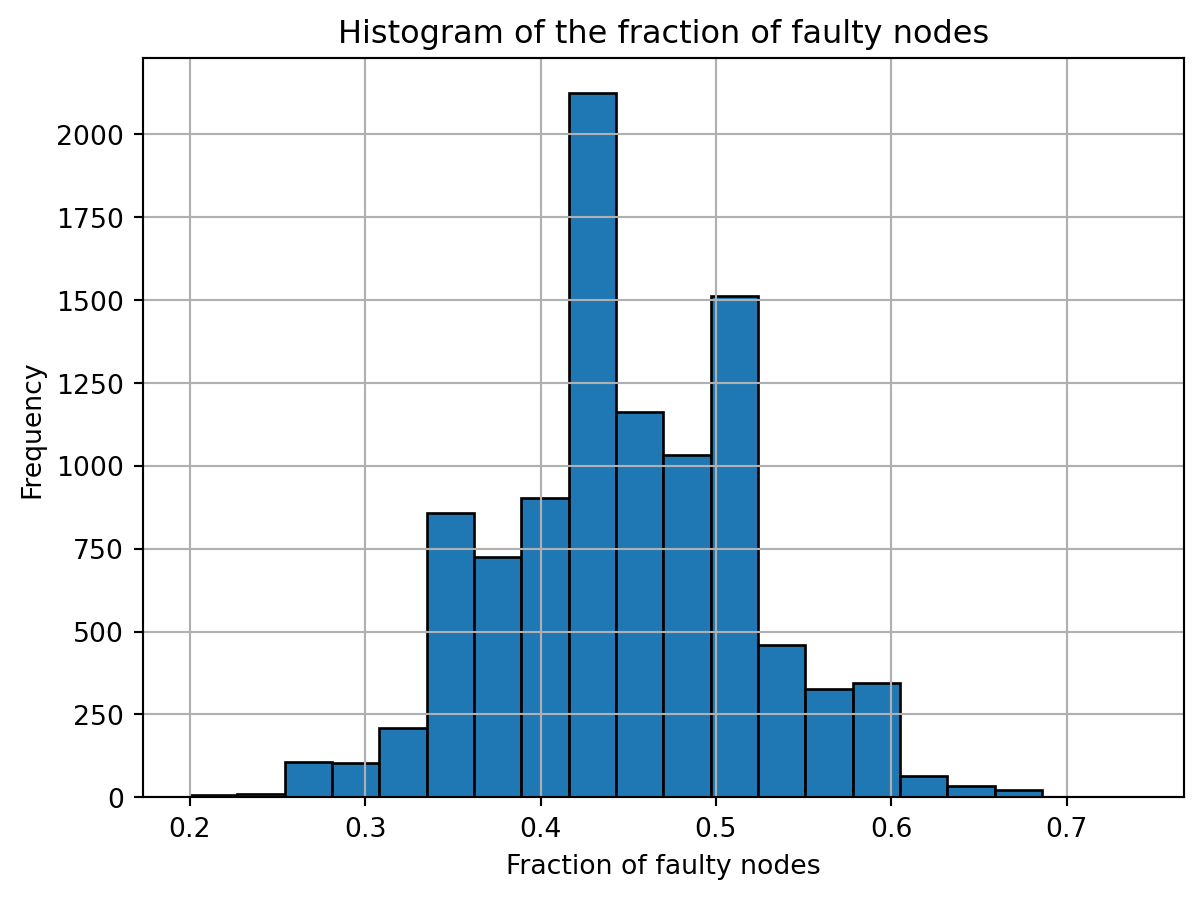
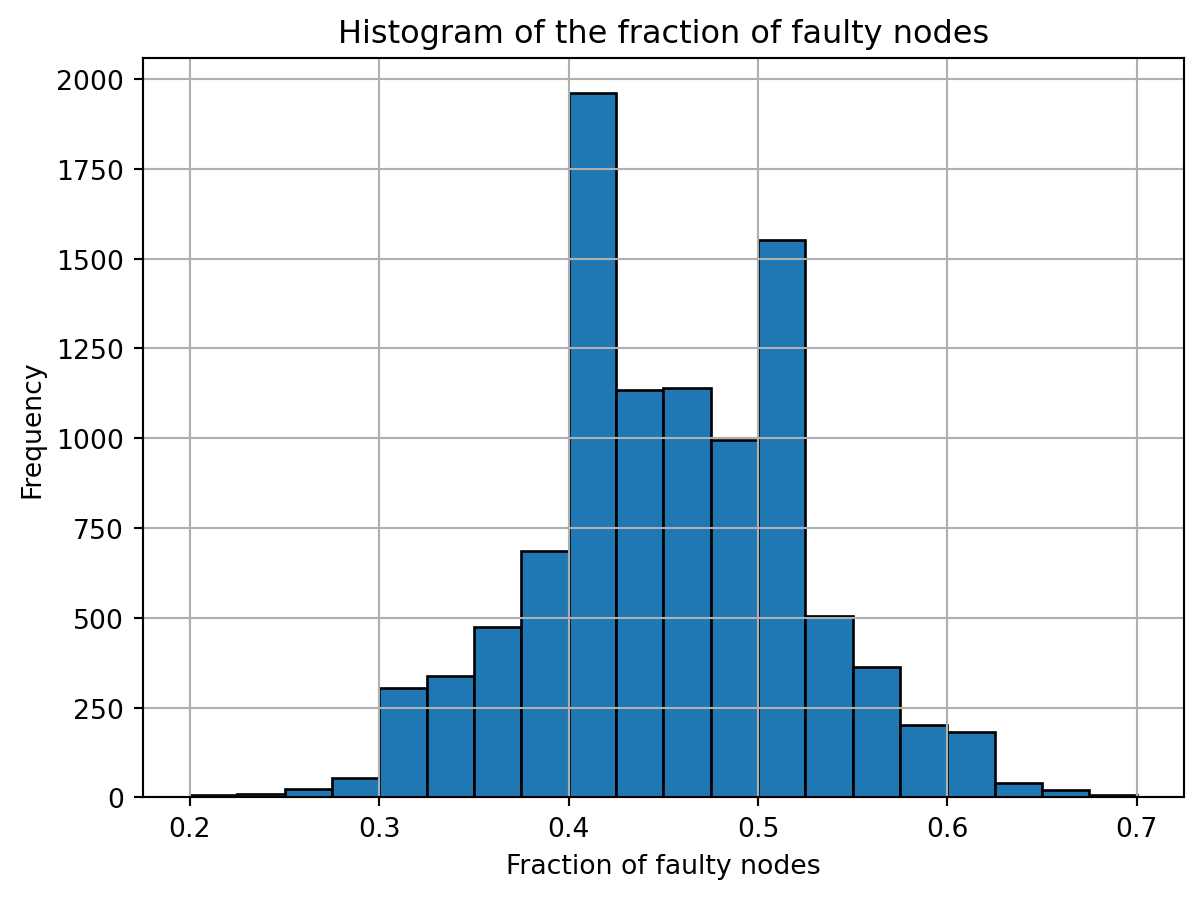
Add files via upload

diff --git a/LongestChain.html b/LongestChain.html
@@ -618,7 +618,7 @@ Case ii) is essentially a generalization of case i): suppose that the integer $K
 </ul>
 <p>Can we turn this “on expectation” statement into a “with high probability” statement? To gain some intuition, you are invited to experiment with different values of <span class="math inline">\alpha</span> and <span class="math inline">K</span>, using the Python code snippets below.</p>
 <p>To create one such leader sequence, use the following code:</p>
-<div id="ba8bb824" class="cell" data-execution_count="1">
+<div id="b3173a0f" class="cell" data-execution_count="1">
 <details class="code-fold">
 <summary>Code</summary>
 <div class="sourceCode cell-code" id="cb2"><pre class="sourceCode python code-with-copy"><code class="sourceCode python"><span id="cb2-1"><a href="#cb2-1" aria-hidden="true" tabindex="-1"></a><span class="im">import</span> numpy <span class="im">as</span> np</span>
@@ -640,7 +640,7 @@ Case ii) is essentially a generalization of case i): suppose that the integer $K
 <span id="cb2-17"><a href="#cb2-17" aria-hidden="true" tabindex="-1"></a>    <span class="cf">return</span> samples</span></code><button title="Copy to Clipboard" class="code-copy-button"><i class="bi"></i></button></pre></div>
 </details>
 </div>
-<div id="ceaa2deb" class="cell" data-execution_count="2">
+<div id="7b0a1540" class="cell" data-execution_count="2">
 <div class="sourceCode cell-code" id="cb3"><pre class="sourceCode python code-with-copy"><code class="sourceCode python"><span id="cb3-1"><a href="#cb3-1" aria-hidden="true" tabindex="-1"></a><span class="co"># Example usage:</span></span>
 <span id="cb3-2"><a href="#cb3-2" aria-hidden="true" tabindex="-1"></a>K <span class="op">=</span> <span class="dv">10</span>      <span class="co"># number of leaders</span></span>
 <span id="cb3-3"><a href="#cb3-3" aria-hidden="true" tabindex="-1"></a>alpha <span class="op">=</span> <span class="fl">0.45</span> <span class="co"># probability of leader being faulty</span></span>
@@ -649,12 +649,12 @@ Case ii) is essentially a generalization of case i): suppose that the integer $K
 <span id="cb3-6"><a href="#cb3-6" aria-hidden="true" tabindex="-1"></a></span>
 <span id="cb3-7"><a href="#cb3-7" aria-hidden="true" tabindex="-1"></a><span class="bu">print</span>(<span class="st">"Fraction of faulty leaders:"</span>, np.<span class="bu">sum</span>(samples)<span class="op">/</span>K)</span></code><button title="Copy to Clipboard" class="code-copy-button"><i class="bi"></i></button></pre></div>
 <div class="cell-output cell-output-stdout">
-<pre><code>Sampled leaders: [0 0 0 0 0 0 1 0 1 0]
-Fraction of faulty leaders: 0.2</code></pre>
+<pre><code>Sampled leaders: [0 1 1 0 0 1 1 0 1 1]
+Fraction of faulty leaders: 0.6</code></pre>
 </div>
 </div>
 <p>If you run the above code several times, you will see that the outcome varies a bit. The following code allows you to run the process <span class="math inline">T</span> times and create a histogram of the fractions of faulty nodes.</p>
-<div id="85c29bfe" class="cell" data-execution_count="3">
+<div id="d8a011dc" class="cell" data-execution_count="3">
 <details class="code-fold">
 <summary>Code</summary>
 <div class="sourceCode cell-code" id="cb5"><pre class="sourceCode python code-with-copy"><code class="sourceCode python"><span id="cb5-1"><a href="#cb5-1" aria-hidden="true" tabindex="-1"></a><span class="kw">def</span> sample_T_sequences(T, K, alpha):</span>
@@ -693,7 +693,7 @@ Fraction of faulty leaders: 0.2</code></pre>
   background-color: #ffffff;
 }
 </style>
-<div id="0b9b69ae" class="cell" data-execution_count="4">
+<div id="eac02035" class="cell" data-execution_count="4">
 <div class="sourceCode cell-code" id="cb6"><pre class="sourceCode python code-with-copy"><code class="sourceCode python"><span id="cb6-1"><a href="#cb6-1" aria-hidden="true" tabindex="-1"></a><span class="co"># Example usage:</span></span>
 <span id="cb6-2"><a href="#cb6-2" aria-hidden="true" tabindex="-1"></a>T <span class="op">=</span> <span class="dv">10000</span>     <span class="co"># Number of leader sequences</span></span>
 <span id="cb6-3"><a href="#cb6-3" aria-hidden="true" tabindex="-1"></a>K <span class="op">=</span> <span class="dv">50</span>       <span class="co"># Number of leaders per sequence</span></span>
@@ -707,7 +707,7 @@ Fraction of faulty leaders: 0.2</code></pre>
 <span id="cb6-11"><a href="#cb6-11" aria-hidden="true" tabindex="-1"></a><span class="co"># Plot the histogram of fractions</span></span>
 <span id="cb6-12"><a href="#cb6-12" aria-hidden="true" tabindex="-1"></a>plot_histogram(fractions)</span></code><button title="Copy to Clipboard" class="code-copy-button"><i class="bi"></i></button></pre></div>
 <div class="cell-output cell-output-stdout">
-<pre><code>The fraction of leader sequences that are balanced is: 0.7233</code></pre>
+<pre><code>The fraction of leader sequences that are balanced is: 0.7129</code></pre>
 </div>
 <div class="cell-output cell-output-display">
 <div class="quarto-figure quarto-figure-center">

diff --git a/ProofofWork.html b/ProofofWork.html
@@ -316,14 +316,14 @@ window.Quarto = {
 <h2 data-number="6.3" class="anchored" data-anchor-id="sha-256"><span class="header-section-number">6.3</span> SHA-256</h2>
 <p>Here we give a brief illustration of how hashing works. We will use as example the SHA-256 hash function. SHA stands for Secure Hash Algorithm. The number 256 refers to the number of bits of the output.</p>
 <p>We will use the python <code>hashlib</code> module, which we first need to import.</p>
-<div id="b7d043b8" class="cell" data-execution_count="1">
+<div id="935ea3cb" class="cell" data-execution_count="1">
 <details class="code-fold">
 <summary>Code</summary>
 <div class="sourceCode cell-code" id="cb1"><pre class="sourceCode python code-with-copy"><code class="sourceCode python"><span id="cb1-1"><a href="#cb1-1" aria-hidden="true" tabindex="-1"></a><span class="im">import</span> hashlib</span></code><button title="Copy to Clipboard" class="code-copy-button"><i class="bi"></i></button></pre></div>
 </details>
 </div>
 <p>Here is an example of how to use SHA256 to hash a short message. The input message will be ``Decentralized finance is cool!’’ and the output is a bitstring of length 256.</p>
-<div id="b8a820f5" class="cell" data-execution_count="2">
+<div id="c65afd3b" class="cell" data-execution_count="2">
 <div class="sourceCode cell-code" id="cb2"><pre class="sourceCode python code-with-copy"><code class="sourceCode python"><span id="cb2-1"><a href="#cb2-1" aria-hidden="true" tabindex="-1"></a><span class="co"># The message to hash</span></span>
 <span id="cb2-2"><a href="#cb2-2" aria-hidden="true" tabindex="-1"></a>message <span class="op">=</span> <span class="st">"Decentralized finance is cool!"</span></span>
 <span id="cb2-3"><a href="#cb2-3" aria-hidden="true" tabindex="-1"></a></span>
@@ -343,7 +343,7 @@ Length of the bitstring: 256</code></pre>
 </div>
 </div>
 <p>Let us now investigate the key property of hash functions: they look like a random function. In particular, this implies that it is hard to predict the output of the function. To illustrate this, let us hash a second message that is very similar to the first: ``Decentralized finance is cool!!!’’</p>
-<div id="6e023c1b" class="cell" data-execution_count="3">
+<div id="920eb32b" class="cell" data-execution_count="3">
 <details class="code-fold">
 <summary>Code</summary>
 <div class="sourceCode cell-code" id="cb4"><pre class="sourceCode python code-with-copy"><code class="sourceCode python"><span id="cb4-1"><a href="#cb4-1" aria-hidden="true" tabindex="-1"></a><span class="co">### Second message </span></span>
@@ -366,7 +366,7 @@ Length of the bitstring: 256</code></pre>
 </div>
 </div>
 <p>If you compare the two strings, you will notice some differences right away. How different are the two strings? If the hash function assigns a random output to every input, then you would expect the two bitstrings to differ in roughly half their entries. Let us use python to count the number of different entries in the two strings.</p>
-<div id="ef152133" class="cell" data-execution_count="4">
+<div id="ee34844f" class="cell" data-execution_count="4">
 <details class="code-fold">
 <summary>Code</summary>
 <div class="sourceCode cell-code" id="cb6"><pre class="sourceCode python code-with-copy"><code class="sourceCode python"><span id="cb6-1"><a href="#cb6-1" aria-hidden="true" tabindex="-1"></a><span class="kw">def</span> count_differences(bitstring1, bitstring2):</span>

diff --git a/gt.html b/gt.html
@@ -187,6 +187,8 @@ ul.task-list li input[type="checkbox"] {
 
 
 <p><link rel="preconnect" href="https://fonts.googleapis.com"> <link rel="preconnect" href="https://fonts.gstatic.com" crossorigin=""> <link href="https://fonts.googleapis.com/css2?family=Fira+Mono&amp;family=Fira+Sans&amp;display=swap" rel="stylesheet"></p>
+<p>In this part of the course, we will focus on various game-theoretic aspects that arise in blockchain protocols and related settings. We will see various ways (both cooperative and non-cooperative) of looking at these problems.</p>
+<p>All of the materials presented in this section are based on scientific papers from the literature. We will acknowledge these at the end of a chapter. None of this is the author/teacher’s own original work.</p>
 
 
 
